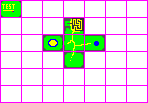
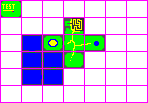
working on walls and stuff

Changed region(s): [[0.1351, 0.3204, 0.4324, 0.8447]]

diff --git a/rendering/graphics_loader.js b/rendering/graphics_loader.js
@@ -15,10 +15,10 @@ class GraphicsLoader {
 
         GRAPHICS.addSpriteSet(
             'environment', 'DUNGEON_TILES',
-            [31, 59, 391],
-            [46, 30, 712],
+            [31, 59, 391, 407],
+            [46, 30, 712, 712],
             16, 16, 0, 0,
-            ['floor_blue_cobblestone', 'floor_purple_stone_tile', 'blocker_yellow_stone']
+            ['floor_blue_cobblestone', 'floor_purple_stone_tile', 'blocker_yellow_stone', 'wall_grey_block']
         );
 
         const spt = GRAPHICS.get('environment');
@@ -28,7 +28,8 @@ class GraphicsLoader {
         GRAPHICS.addTile('stone on sand', spt.gsl('sand'), spt.gsl('light8block'));
         GRAPHICS.addTile('floor blue cobblestone', spt.gsl('floor_blue_cobblestone'));
         GRAPHICS.addTile('floor purple stone tile', spt.gsl('floor_purple_stone_tile'));
-        GRAPHICS.addTile('blocker yellow stone', spt.gsl('blocker_yellow_stone'))
+        GRAPHICS.addTile('blocker yellow stone', spt.gsl('blocker_yellow_stone'));
+        GRAPHICS.addTile('wall grey block', spt.gsl('wall_grey_block'));
         
 
         // const theSprites = GRAPHICS.get('environment');

diff --git a/main.js b/main.js
@@ -24,7 +24,7 @@ ASSET_MANAGER.downloadAll(() => {
 
 	new GraphicsLoader(); // <- just to build the sprites & animations into GRAPHICS
 
-	Player.CURR_PLAYER = new Player(canvas.width/2 - 144, canvas.height/2 - 32);
+	Player.CURR_PLAYER = new Player(canvas.width/2 - 16, canvas.height/2 - 32);
 	gameEngine.addEntity(Player.CURR_PLAYER); 
 	//gameEngine.addEntity(new Knight(canvas.width/4, canvas.height/2));
 	
@@ -36,7 +36,8 @@ ASSET_MANAGER.downloadAll(() => {
 		'#333333':'stone_sand',
 		'#ffff00':'sand',
 		'#0000ff':'floor_blue_cobblestone',
-		'#008800':'blocker_yellow_stone'
+		'#008800':'blocker_yellow_stone',
+		'#444444':'wall_grey_block'
 	});
 
 	testMap.addMapCellEntity(2, 2, new Knight(500, 600));
@@ -44,7 +45,7 @@ ASSET_MANAGER.downloadAll(() => {
 	//testMap.addMapCellEntity(3, 2, new Knight(600, 600));
 	testMap.addMapCellEntity(3, 2, new Bunny(400,400));
 
-	let roomIndexX = 3;
+	let roomIndexX = 1;
 	let roomIndexY = 2;
 	testMap.loadMapCell(roomIndexX, roomIndexY);
 	//setInterval(bun, bt)

diff --git a/scenemanager.js b/scenemanager.js
@@ -34,4 +34,18 @@ class SceneManager{
         this.env_entities = [];
         this.interact_entities = [];
     }
+
+    getEnvEntityAtCoord(xTileCoord, yTileCoord) {
+        let tilesWide = gameEngine.currMap.cellWidthInTiles;
+        return this.env_entities[yTileCoord*tilesWide + xTileCoord];
+    }
+
+    getNeighborTiles(xTileCoord, yTileCoord) {
+        let (tilesWide, tilesHigh) = (gameEngine.currMap.cellWidthInTiles, gameEngine.currMap.cellHeightInTiles);
+        let (northTile, southTile, westTile, eastTile) = (null, null, null, null);
+        if (yTileCoord > 0)         northTile = this.getEnvEntityAtCoord(xTileCoord, yTileCoord-1);
+        if (yTileCoord < tilesWide) southTile = this.getEnvEntityAtCoord(xTileCoord, yTileCoord+1);
+        if (xTileCoord > 0)         westTile = this.getEnvEntityAtCoord(xTileCoord-1, yTileCoord);
+        if (xTileCoord < tilesHigh) eastTile = this.getEnvEntityAtCoord(xTileCoord+1, yTileCoord);
+    }
 }

diff --git a/maptiles.js b/maptiles.js
@@ -98,7 +98,35 @@ class BlockerYellowDoor {
         if (this.locked) {
             GRAPHICS.get('blocker yellow stone').drawTile(ctx, this.xLoc, this.yLoc);
         } else {
-            GRAPHICS.get('grass').drawTile(ctx, this.xLoc, this.yLoc);
+            GRAPHICS.get('floor blue cobblestone').drawTile(ctx, this.xLoc, this.yLoc);
         }
+    }
+}
+
+class WallGreyBlock {
+    constructor(xLoc, yLoc) {
+        Object.assign(this, { xLoc, yLoc });
+    }
+
+    update() {
+
+    };
+
+    draw(ctx, scale) {
+        GRAPHICS.get('wall grey block').drawTile(ctx, this.xLoc, this.yLoc);
+    }
+}
+
+class WallComplex {
+    constructor(xLoc, yLoc) {
+        Object.assign(this, { xLoc, yLoc });
+    }
+
+    update() {
+
+    };
+
+    draw(ctx, scale) {
+        let tileAbove = gameEngine.scene.env_
     }
 }

diff --git a/map.js b/map.js
@@ -7,6 +7,7 @@ class GameMap {
 
         this.mapImage = ASSET_MANAGER.getAsset(this.imageFilePath);
 
+        this.currMap = null;
 
         this.cellWidthInPx = cellWidthInTiles * pxTileWidth;
         this.cellHeightInPx = cellHeightInTiles * pxTileHeight;
@@ -121,6 +122,8 @@ class GameMap {
                     tile = new BlueStoneFloor(tileX, tileY);
                 else if (tileColor == 'blocker_yellow_stone')
                     tile = new BlockerYellowDoor(tileX, tileY);
+                else if (tileColor == 'wall_grey_block')
+                    tile = new WallGreyBlock(tileX, tileY);
                 else
                     tile = new Grass(tileX, tileY);
 
